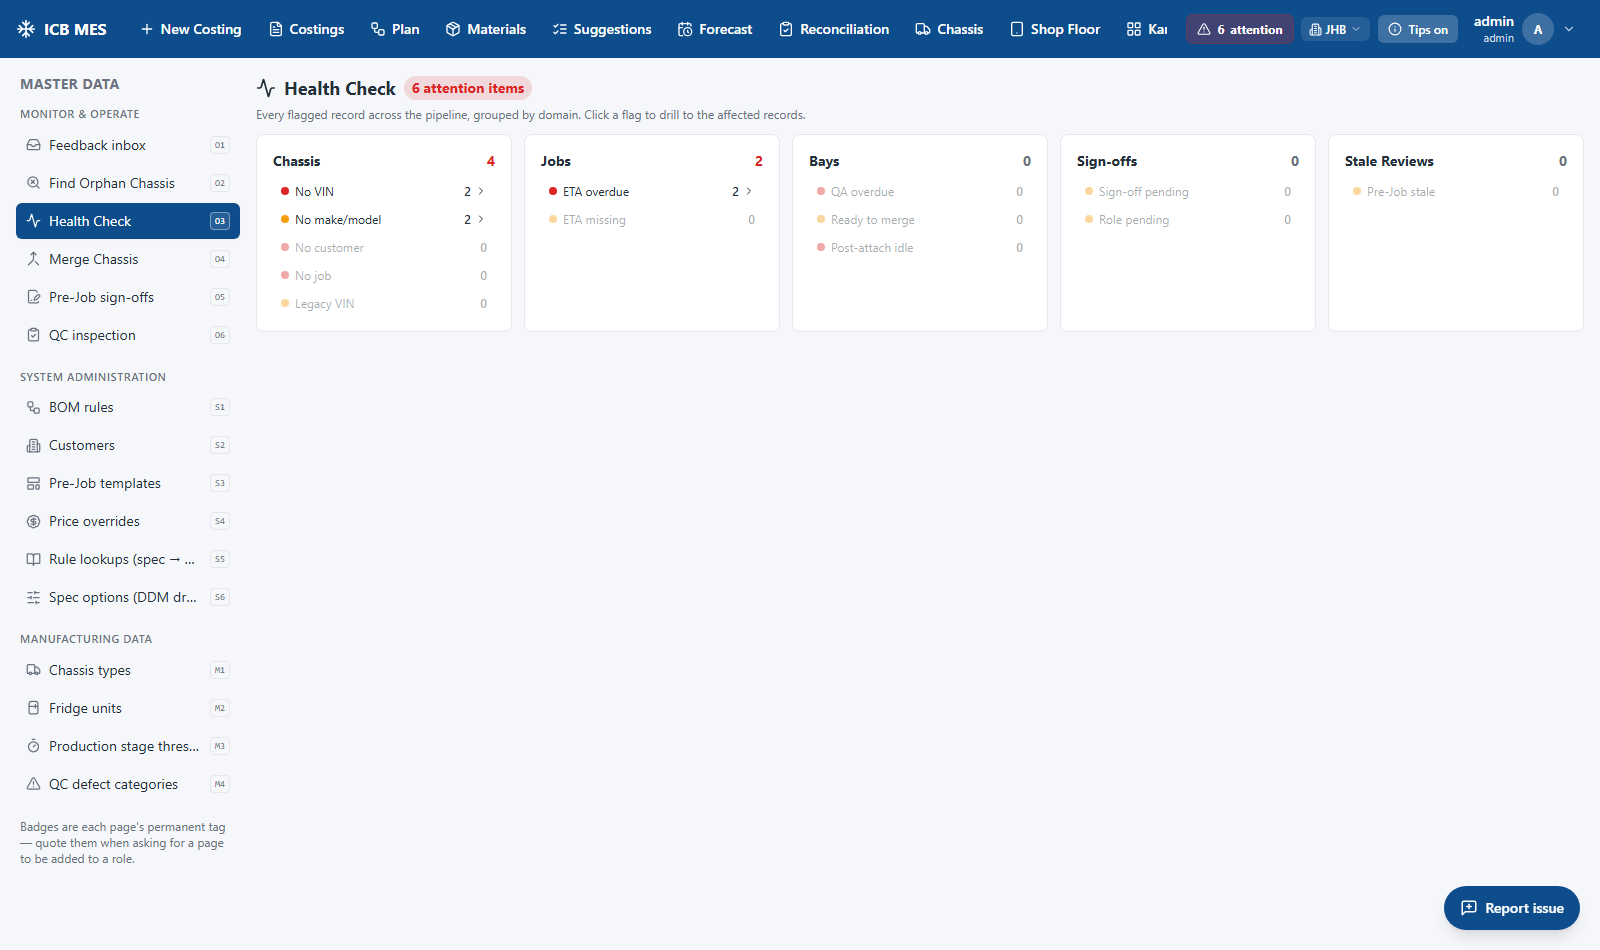
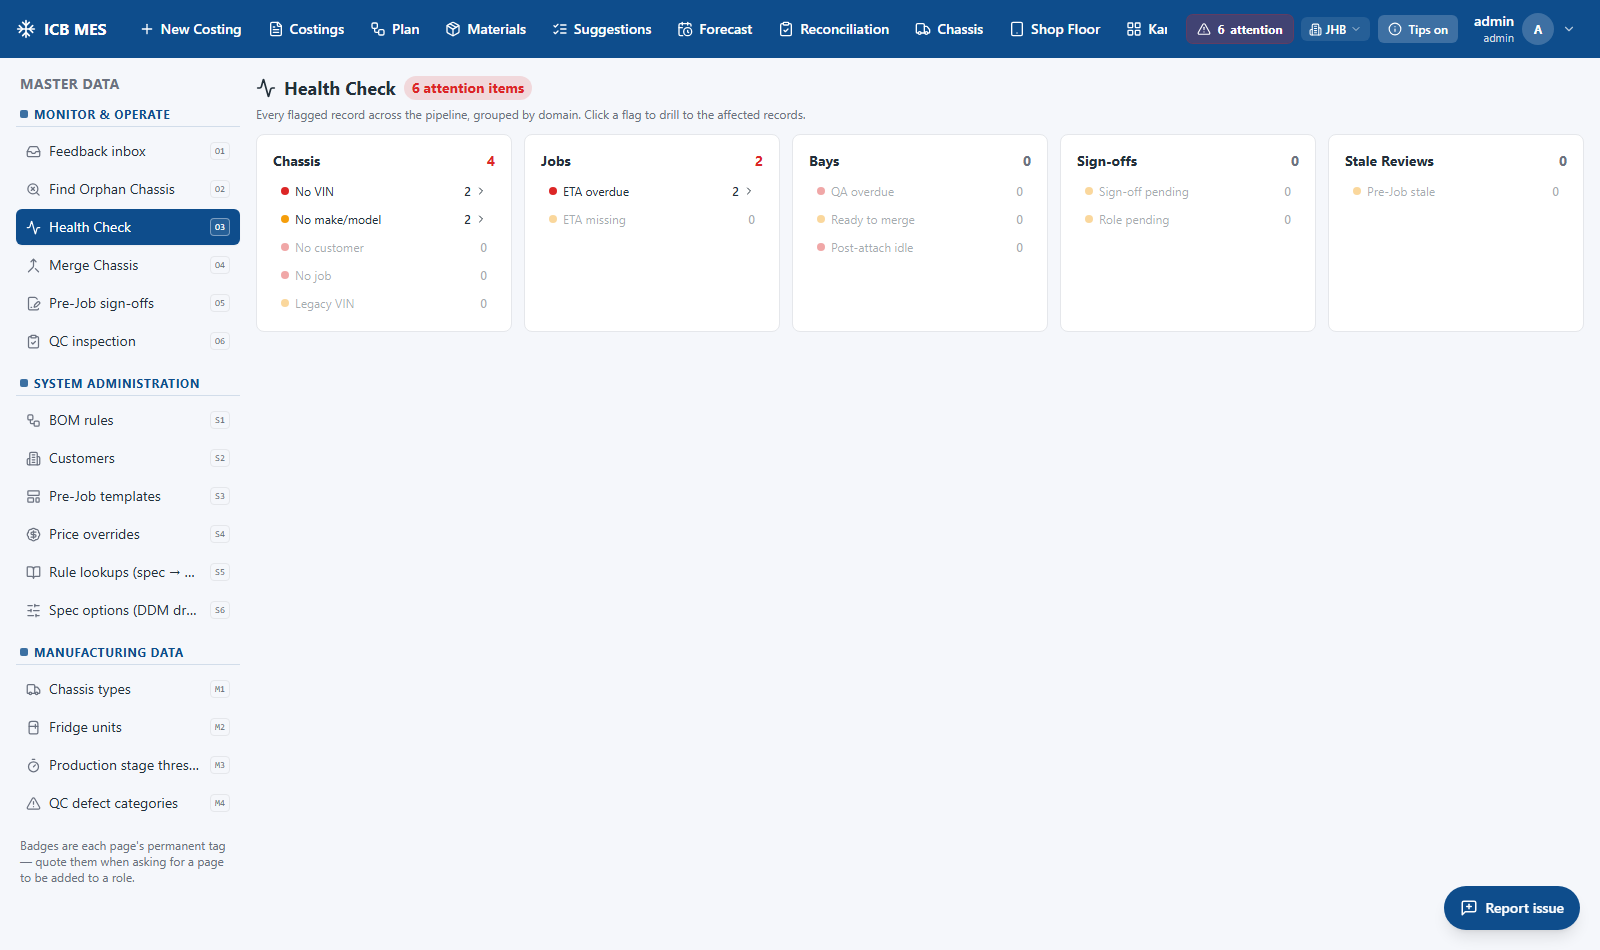
admin-md — group headings pop: bold, brand-blue, accent chip + underline (Michael 9 Jul)

Changed region(s): [[0.0, 0.3968, 0.1562, 0.9463], [0.0, 0.0916, 0.1562, 0.3663]]

diff --git a/frontend/src/screens/Admin/AdminModule.tsx b/frontend/src/screens/Admin/AdminModule.tsx
@@ -73,7 +73,9 @@ export function AdminModule() {
             if (visible.length === 0) return null
             return (
               <div key={group.id} data-testid={`admin-group-${group.id}`}>
-                <div className="mb-1 px-1 text-[11px] font-semibold uppercase tracking-wider text-muted">
+                {/* Michael 9 Jul — group headings pop: bold, brand blue, small accent chip. */}
+                <div className="mb-1.5 flex items-center gap-1.5 border-b border-primary/15 px-1 pb-1 text-xs font-bold uppercase tracking-wider text-primary">
+                  <span className="h-2 w-2 rounded-sm bg-primary/80" aria-hidden />
                   {group.label}
                 </div>
                 <div className="space-y-0.5">
